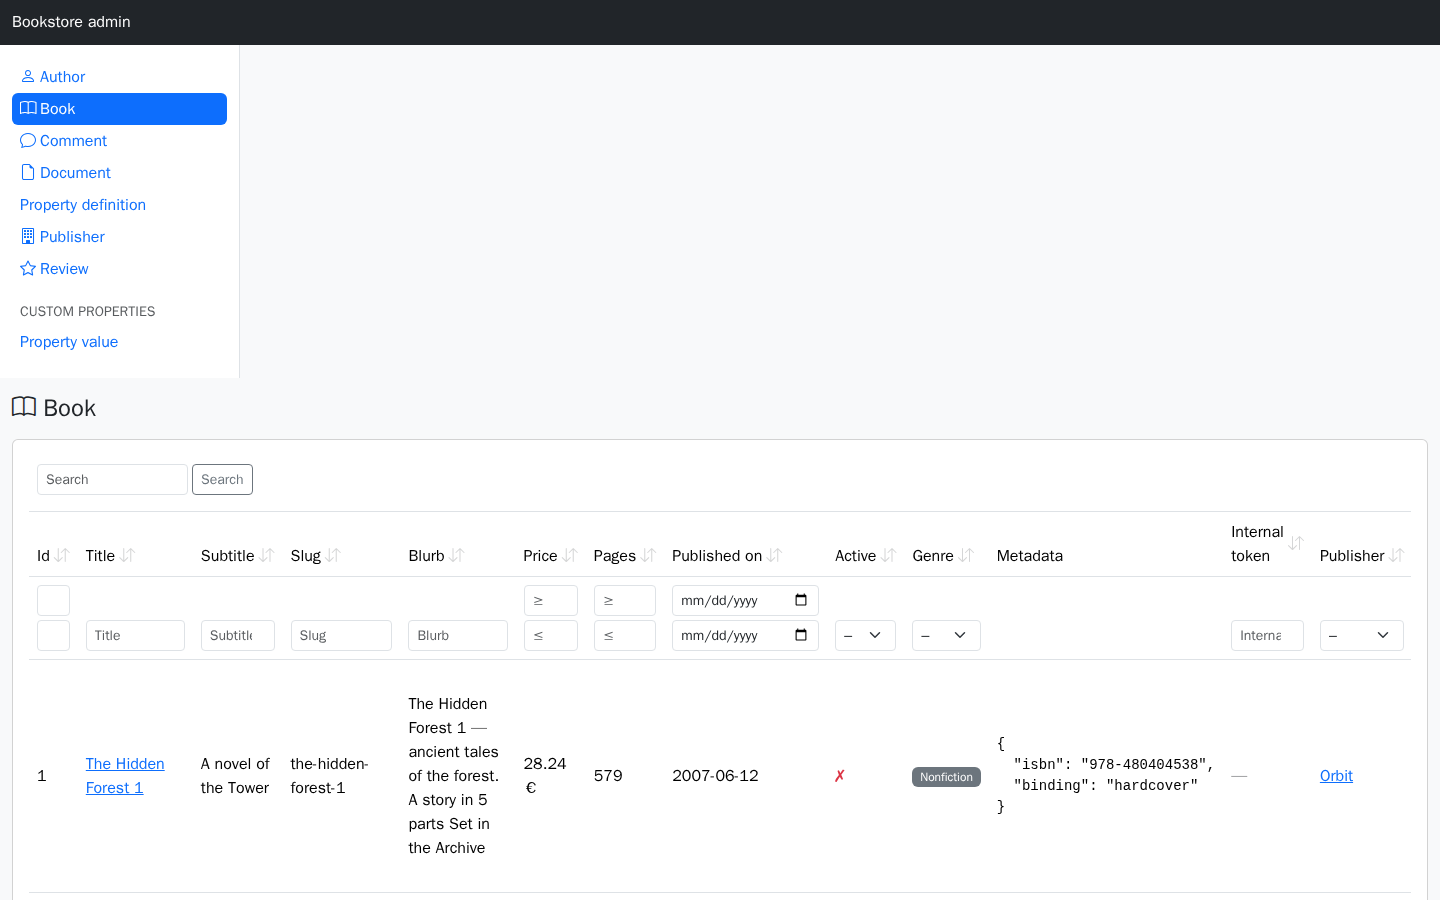
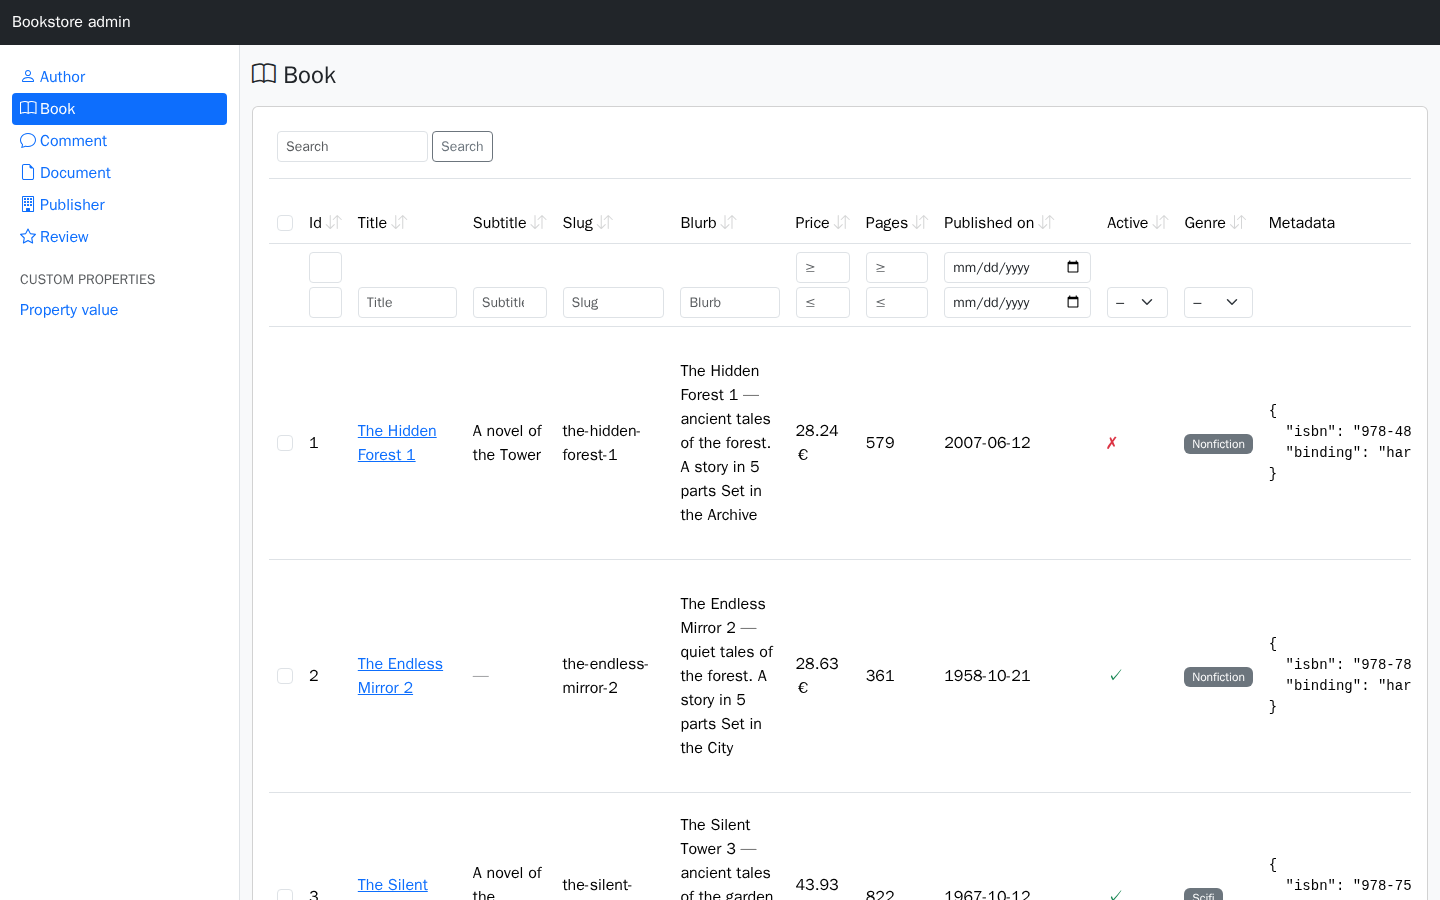
Admin: nested indexes, bulk delete, locales (#50)
Every to-many association between registered models gets a nested index, so
the +n more links resolve (habtm included, which no filter can express).
Models with a destroy route get a bulk delete wired to the row checkboxes,
each record still checked on its own. German and English chrome strings.

diff --git a/app/assets/stylesheets/crud_components_admin.css b/app/assets/stylesheets/crud_components_admin.css
@@ -1,0 +1,13 @@
+/* crud_components admin — the few rules the bundled layout needs beyond
+ * Bootstrap. Loaded only inside the mounted admin.
+ */
+
+/* A wide table scrolls inside the content column instead of pushing the
+ * sidebar out of the row. */
+.crud-admin-main { min-width: 0; }
+.crud-admin-main .card-body { overflow-x: auto; }
+
+.crud-admin-sidebar { --crud-admin-sidebar-top: 1rem; }
+.crud-admin-sidebar > .crud-admin-sidebar-inner { position: sticky; top: var(--crud-admin-sidebar-top); }
+
+.crud-admin-nav .nav-link { border-radius: .25rem; }

diff --git a/app/controllers/crud_components/admin/resources_controller.rb b/app/controllers/crud_components/admin/resources_controller.rb
@@ -10,6 +10,7 @@ module CrudComponents
       before_action :authorize_action!
 
       def index
+        @owner = owner
         @query = CrudComponents::Query.new(@model, params, fieldset: @entry.fieldset, ability: admin_ability)
         @records = paginate(@query.apply(base_scope))
       end
@@ -44,6 +45,17 @@ module CrudComponents
         redirect_to after_save_path(@record), alert: e.message
       end
 
+      # The ticked rows, each checked against the ability on its own.
+      def destroy_selected
+        records = CrudComponents.selected(base_scope, params).select { |record| allowed?(:destroy, record) }
+        records.each(&:destroy!)
+        redirect_to index_path,
+                    notice: t('crud_components.admin.notices.destroyed_selected', count: records.size,
+                              default: '%{count} deleted.')
+      rescue ActiveRecord::InvalidForeignKey, ActiveRecord::DeleteRestrictionError => e
+        redirect_to index_path, alert: e.message
+      end
+
       private
 
       def set_entry
@@ -53,7 +65,31 @@ module CrudComponents
         @model = @entry.model
       end
 
-      def base_scope = admin_scope(@entry)
+      # A nested index (`/admin/publishers/tor-books/books`) renders the owner's
+      # association; everything else renders the model's own scope.
+      def base_scope
+        return admin_scope(@entry) unless owner
+
+        owner.public_send(params[:crud_association])
+      end
+
+      def owner_entry
+        return @owner_entry if defined?(@owner_entry)
+
+        @owner_entry = params[:crud_owner] && admin_registry[params[:crud_owner]]
+      end
+
+      def owner
+        return @owner if defined?(@owner)
+
+        entry = owner_entry
+        return @owner = nil unless entry
+
+        record = find_record(admin_scope(entry), params["#{entry.singular_route_key}_id"], entry)
+        raise ForbiddenError, "not allowed to show this #{entry.model.model_name.human}" unless allowed?(:show, record)
+
+        @owner = record
+      end
 
       def set_record
         @record = find_record(base_scope, params[:id])
@@ -65,18 +101,18 @@ module CrudComponents
 
       # A URL segment matches `identify_by` first, then the primary key — so a
       # model whose `to_param` is a slug and one that uses ids both resolve.
-      def find_record(scope, param)
-        key = @entry.param_key
+      def find_record(scope, param, entry = @entry)
+        key = entry.param_key
         found = key.to_s == 'id' ? nil : scope.find_by(key => param)
-        found ||= scope.find_by(@model.primary_key => param)
-        raise ActiveRecord::RecordNotFound, "#{@model}: no record for #{param.inspect}" unless found
+        found ||= scope.find_by(entry.model.primary_key => param)
+        raise ActiveRecord::RecordNotFound, "#{entry.model}: no record for #{param.inspect}" unless found
 
         found
       end
 
       # Writes are checked against the permission that shows their button, so a
       # hidden Edit button and a forged PATCH agree.
-      ACTION_PERMISSIONS = { create: :new, update: :edit }.freeze
+      ACTION_PERMISSIONS = { create: :new, update: :edit, destroy_selected: :destroy }.freeze
 
       def authorize_action!
         subject = @record || @model
@@ -84,10 +120,14 @@ module CrudComponents
 
         authorize!(permission, subject) if respond_to?(:authorize!, true)
 
-        ability = admin_ability
-        return if ability.nil? || ability.can?(permission, subject)
+        return if allowed?(permission, subject)
 
         raise ForbiddenError, "not allowed to #{permission} this #{@model.model_name.human}"
+      end
+
+      def allowed?(permission, subject)
+        ability = admin_ability
+        ability.nil? || ability.can?(permission, subject)
       end
 
       def record_params(action)

diff --git a/test/admin_engine_test.rb b/test/admin_engine_test.rb
@@ -276,4 +276,62 @@ class AdminEngineTest < ActionDispatch::IntegrationTest
     assert_nil CrudComponents::Admin.path_for(value, :edit)
     assert_nil CrudComponents::Admin.path_for(@hobbit, :no_such_action)
   end
+
+  # ── nested indexes ───────────────────────────────────────────────────────
+  test 'an owner has a nested index for each to-many association' do
+    get "/admin/publishers/tor-books/books"
+
+    assert_response :success
+    assert_select 'td', text: /The Hobbit/
+  end
+
+  test "a nested index shows only the owner's records" do
+    other = Publisher.create!(name: 'Ace', slug: 'ace')
+    Book.create!(title: 'A Wizard of Earthsea', slug: 'earthsea', publisher: other)
+
+    get '/admin/publishers/tor-books/books'
+
+    assert_response :success
+    assert_select 'td', text: /A Wizard of Earthsea/, count: 0
+  end
+
+  test 'a habtm association gets a nested index too' do
+    get "/admin/authors/#{@tolkien.id}/books"
+
+    assert_response :success
+    assert_select 'td', text: /The Hobbit/
+    assert_select 'td', text: /The Dispossessed/, count: 0
+  end
+
+  test 'an unknown owner is a 404' do
+    get '/admin/publishers/no-such-publisher/books'
+
+    assert_response :not_found
+  end
+
+  # ── bulk destroy ─────────────────────────────────────────────────────────
+  test 'the ticked rows are deleted' do
+    post '/toggle_admin'
+    other = Author.create!(name: 'Ursula K. Le Guin', email: 'ursula@example.com')
+
+    assert_difference -> { Author.count }, -2 do
+      delete '/admin/authors/destroy_selected', params: { selected: [@tolkien.id, other.id] }
+    end
+
+    assert_redirected_to '/admin/authors'
+  end
+
+  test 'a bulk delete the ability forbids is refused' do
+    assert_no_difference -> { Author.count } do
+      delete '/admin/authors/destroy_selected', params: { selected: [@tolkien.id] }
+    end
+
+    assert_response :forbidden
+  end
+
+  test 'a read-only model has no bulk delete route' do
+    delete '/admin/property_values/destroy_selected'
+
+    assert_response :not_found
+  end
 end

diff --git a/lib/crud_components/admin/entry.rb b/lib/crud_components/admin/entry.rb
@@ -67,9 +67,41 @@ module CrudComponents
         structure.declared_fieldset_names.include?(:admin) ? :admin : :default
       end
 
+      # The registered targets of this model's to-many associations, as
+      # [association, entry] pairs — the nested indexes drawn under it.
+      NestedAssociation = Struct.new(:association, :entry) do
+        def name = entry.name
+
+        def route_key = entry.route_key
+      end
+
+      def nested_associations(registry)
+        model.reflect_on_all_associations
+             .select { |reflection| reflection.collection? }
+             .filter_map do |reflection|
+               target = safe_target(reflection)
+               next unless target
+
+               nested = registry[target]
+               next unless nested&.allows?(:index) && nested.model != model
+
+               NestedAssociation.new(reflection.name, nested)
+             end
+             .uniq(&:route_key)
+      end
+
       def to_s = name
 
       private
+
+      # A polymorphic or otherwise unresolvable association has no single target.
+      def safe_target(reflection)
+        return nil if reflection.options[:polymorphic] || reflection.options[:through]
+
+        reflection.klass
+      rescue NameError
+        nil
+      end
 
       def resolve_actions
         declared = options[:actions]

diff --git a/lib/crud_components/admin/routes.rb b/lib/crud_components/admin/routes.rb
@@ -1,8 +1,10 @@
 CrudComponents::Admin::Engine.routes.draw do
   root 'dashboard#show'
 
+  registry = CrudComponents::Admin.registry
   drawn = {}
-  CrudComponents::Admin.registry.entries.each do |entry|
+
+  registry.entries.each do |entry|
     next if entry.actions.empty?
 
     if (clash = drawn[entry.route_key])
@@ -13,6 +15,19 @@ CrudComponents::Admin::Engine.routes.draw do
 
     drawn[entry.route_key] = entry.name
     resources entry.route_key, controller: 'resources', only: entry.actions,
-                               defaults: { crud_model: entry.name }
+                               defaults: { crud_model: entry.name } do
+      if entry.allows?(:destroy)
+        collection { delete :destroy_selected, controller: 'resources' }
+      end
+
+      # An index per to-many association pointing here, so the owner's
+      # "+n more" links and its association cells resolve.
+      entry.nested_associations(registry).each do |association|
+        resources association.route_key, controller: 'resources', only: :index,
+                                         defaults: { crud_model: association.name,
+                                                     crud_association: association.association.to_s,
+                                                     crud_owner: entry.name }
+      end
+    end
   end
 end

diff --git a/lib/crud_components/admin/view_helpers.rb b/lib/crud_components/admin/view_helpers.rb
@@ -21,6 +21,23 @@ module CrudComponents
 
       def admin_title = CrudComponents::Admin.config.resolved_title
 
+      # The admin layout's stylesheet, inlined (CSP-nonce aware).
+      def admin_styles
+        nonce = content_security_policy_nonce if respond_to?(:content_security_policy_nonce)
+        tag.style(CrudComponents::Admin.bundled_css.html_safe, type: 'text/css', nonce: nonce)
+      end
+
+      # The bulk action deleting the ticked rows, or nil for a model that has
+      # no destroy route.
+      def admin_destroy_selected_action(entry)
+        return nil unless entry.allows?(:destroy)
+
+        CrudComponents::Action.new(
+          :destroy_selected, on: :selection, method: :delete, confirm: true, icon: 'trash',
+          title: t('crud_components.admin.destroy_selected', default: 'Delete selected')
+        ) { public_send("destroy_selected_#{entry.route_key}_path") }
+      end
+
       # The row action linking a record to the host app's own page for it.
       # Resolves through crud_app_path, so it disappears when there is none.
       def admin_show_in_app_action

diff --git a/test/i18n_test.rb b/test/i18n_test.rb
@@ -19,4 +19,14 @@ class I18nTest < ActiveSupport::TestCase
       assert_equal 'Nein', I18n.t('crud_components.filter.no')
     end
   end
+
+  test 'the admin chrome is translated too' do
+    assert_equal 'Show in app', I18n.t('crud_components.admin.show_in_app')
+    assert_equal '2 records deleted.', I18n.t('crud_components.admin.notices.destroyed_selected', count: 2)
+
+    I18n.with_locale(:de) do
+      assert_equal 'In der App ansehen', I18n.t('crud_components.admin.show_in_app')
+      assert_equal '2 Datensätze gelöscht.', I18n.t('crud_components.admin.notices.destroyed_selected', count: 2)
+    end
+  end
 end

diff --git a/lib/crud_components/presenters/collection.rb b/lib/crud_components/presenters/collection.rb
@@ -399,7 +399,8 @@ module CrudComponents
         return nil unless @actions_enabled
 
         @selection_actions ||= Actions.new(view: view, subject: model, structure: structure,
-                                           actions: structure.fieldset_actions(fieldset, on: :selection),
+                                           actions: structure.fieldset_actions(fieldset, on: :selection) +
+                                                    @extra_actions.select { |action| action.on == :selection },
                                            owner: owner)
       end
 

diff --git a/lib/crud_components/admin.rb b/lib/crud_components/admin.rb
@@ -42,6 +42,13 @@ module CrudComponents
         @mount_path = nil
       end
 
+      # The admin layout's own stylesheet, read once from the packaged file.
+      def bundled_css
+        @bundled_css ||= File.read(
+          File.expand_path('../../app/assets/stylesheets/crud_components_admin.css', __dir__)
+        )
+      end
+
       # Where the host mounted the engine, or nil when it did not.
       def mount_path
         return @mount_path if defined?(@mount_path) && !@mount_path.nil?

diff --git a/docs/admin.md b/docs/admin.md
@@ -279,6 +279,28 @@ Forms are the exception: they use the usual `:form` fieldset, since that is alre
 
 Nothing here is required. A model with no fieldsets at all still gets a complete admin.
 
+## Associations
+
+Every to-many association between two registered models gets a **nested index**:
+`/admin/publishers/tor-books/books` renders that publisher's books, with the same
+filtering and sorting as the flat one. Two things follow from having those routes:
+
+- the `+n more` link in a has_many cell resolves to the owner's own list instead of
+  falling back to plain text — including for `has_and_belongs_to_many`, which cannot be
+  expressed as a filter on the target;
+- the owner is authorized in its own right: you cannot read a publisher's books through
+  the nested route if the ability withholds that publisher.
+
+Polymorphic and `:through` associations are skipped — there is no single target model to
+draw a route to.
+
+## Bulk delete
+
+A model with a destroy route also gets `DELETE /admin/books/destroy_selected`, wired to the
+row checkboxes the gem already renders. Each ticked record is checked against the ability
+on its own before it is destroyed, so a bulk action can never delete more than the
+equivalent one-by-one clicks would.
+
 ## Trade-offs
 
 Worth knowing before you mount it:
